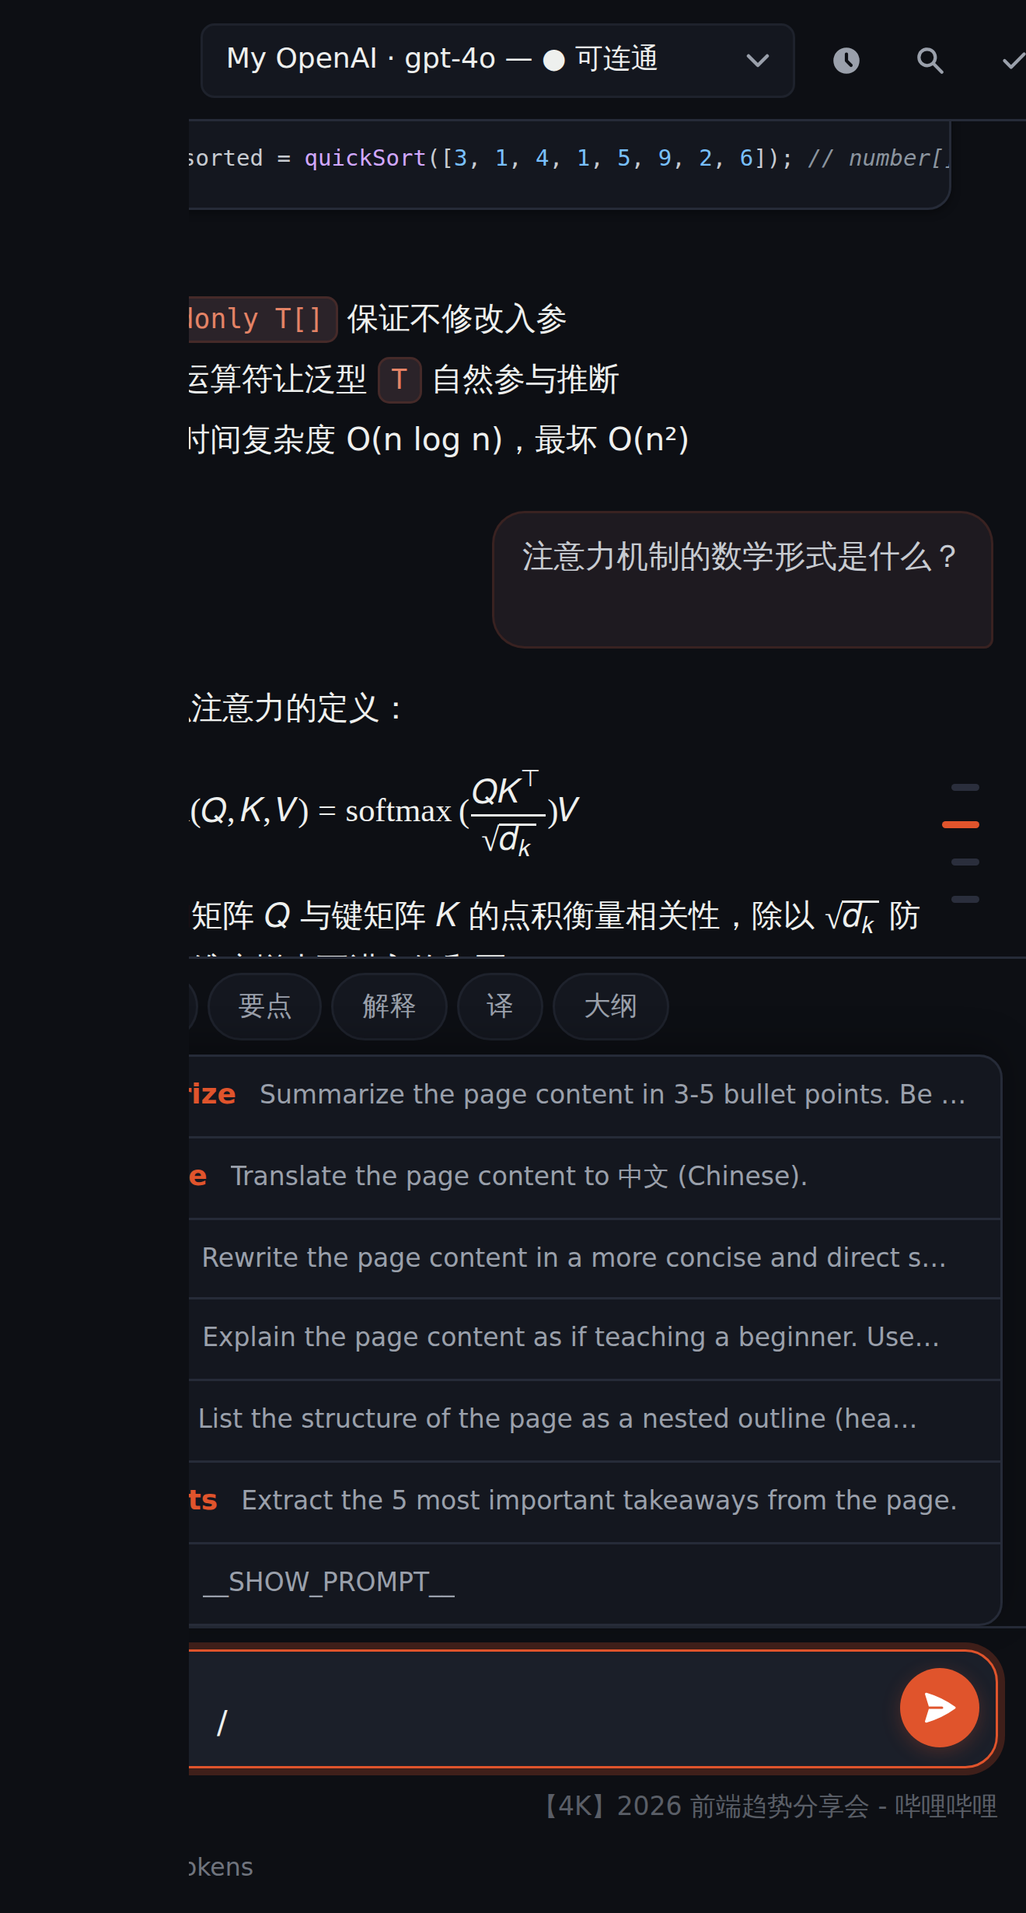
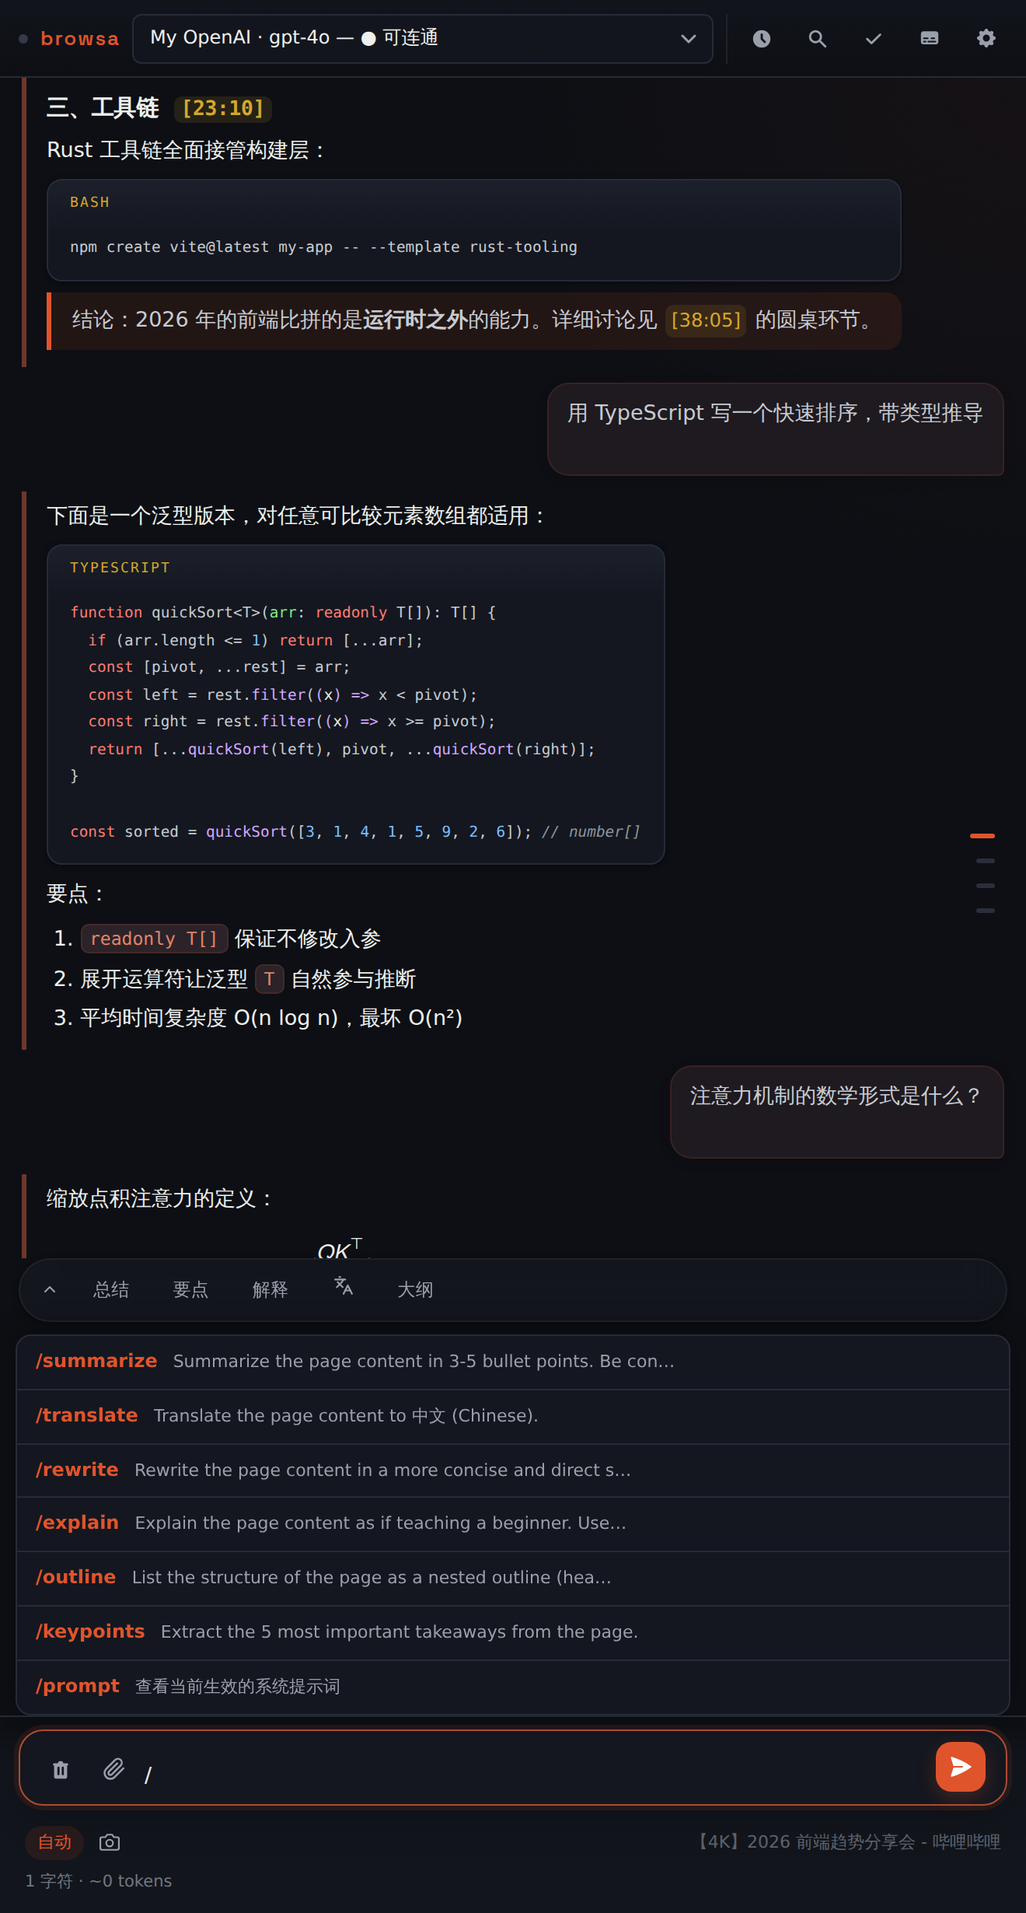
fix(ui): UI 审计六缺陷修复 + /prompt 哨兵泄漏 + guide 截图重摄
CDP 截图+计算样式探针实证的六处缺陷：
- .mermaid-btn 引用从未定义的 --text/--bg-hover，浅色模式全套图表
  工具条对比度 1.2:1（≈隐形）→ 换真实 token（7.5:1）
- 全局 *:focus-visible 光环与 refinement pass 的 outline 叠成双环，
  且 border-radius:4px 把圆形发送按钮聚焦时捏方 → 单一 outline 体系
- 三处 CJK 斜体回潮（.tp-text/.think-block summary/.detail-thread-quote）
  违反本文件自己的无合成斜体规则 → 去斜体
- 浅色代码块暖米色 #f5f2ec 违反冷纸白概念且平铺 shorthand 抹掉
  语言标签渐变带 → token 化冷色 + 恢复渐变带
- 回底按钮固定 bottom:134px 在 composer 长高后压上 quickbar →
  ResizeObserver 按 quickbar+composer 真实高度重定位
- hover 才显现的控件（消息操作/会话操作/代码复制/图表工具条）补
  :focus-within 键盘可达

顺带：/prompt 建议行渲染拦截哨兵 __SHOW_PROMPT__（旧截图已在）→
特例走 t('slashPromptDesc')，en/zh 对齐 README 措辞；快捷条「译」文字
pill 换双语中性的翻译图标；删死 CSS（旧 edit-mode 块）、合并重复
reduced-motion、5 处 transition:all 枚举、theme.css 补 color-scheme、
API Key 输入 autocomplete/spellcheck、options 未定义 --hover 换
--hover-bg。guide 五张截图（拍到旧译 pill+斜体）从修复后 dev-preview
同尺寸重摄。AGENTS.md 固化「refinement pass 尾部覆盖须显式重置被换
系统」的教训。

diff --git a/sidepanel.css b/sidepanel.css
@@ -121,7 +121,7 @@ body {
   background: transparent;
   color: var(--fg-dim);
   cursor: pointer;
-  transition: all var(--t);
+  transition: background var(--t), border-color var(--t), color var(--t);
   flex-shrink: 0;
   padding: 0;
 }
@@ -290,7 +290,7 @@ body {
   background: var(--bg-2);
   color: var(--fg-dim);
   cursor: pointer;
-  transition: all 0.12s;
+  transition: background 0.12s, border-color 0.12s, color 0.12s;
   box-shadow: var(--shadow-sm);
 }
 .msg-action-icon:hover { background: var(--bg-4); border-color: var(--fg-dim); color: var(--fg); }
@@ -635,7 +635,10 @@ body {
   max-width: 90%;
 }
 .tp-icon { flex-shrink: 0; font-size: 13px; }
-.tp-text { font-style: italic; overflow: hidden; text-overflow: ellipsis; white-space: nowrap; }
+/* No font-style:italic here or anywhere CJK can appear (the blockquote rule
+   below documents why: browsers synthesize ugly obliques for Chinese glyphs).
+   The dim color + pulsing rail already carry the "ephemeral process" signal. */
+.tp-text { overflow: hidden; text-overflow: ellipsis; white-space: nowrap; }
 /* Tier-specific accent colours + left stripe */
 .tool-progress[data-tier="thinking"]  { color: var(--warn); border-left-color: var(--warn); }
 .tool-progress[data-tier="searching"] { color: #60a5fa; border-left-color: #60a5fa; }
@@ -810,7 +813,17 @@ body {
   letter-spacing: 0.12em;
 }
 @media (prefers-color-scheme: light) {
-  .msg.assistant pre { background: #f5f2ec; color: #2d2a22; }
+  /* Cool panel from the same tokens as dark (theme.css's light mode is cool
+     paper-white by design — the earlier flat #f5f2ec was a warm parchment
+     that contradicted it, and the flat `background:` shorthand also dropped
+     the 34px header-band gradient, leaving the language label floating over
+     the first code line). */
+  .msg.assistant pre {
+    background:
+      linear-gradient(to bottom, color-mix(in srgb, var(--bg-4) 55%, var(--bg-2)), rgba(0,0,0,0) 34px),
+      var(--bg-3);
+    color: var(--fg-2);
+  }
 }
 .msg.assistant pre code { background: transparent; padding: 0; border-radius: 0; color: inherit; border: none; }
 .msg.assistant table {
@@ -873,7 +886,6 @@ math[display="block"] {
   padding: 5px 10px;
   cursor: pointer;
   color: var(--fg-dim);
-  font-style: italic;
   list-style: none;
   user-select: none;
 }
@@ -975,9 +987,13 @@ math[display="block"] {
   padding: 4px 4px 0;
 }
 .mermaid-btn {
-  background: var(--bg-3, #2a2a3a);
-  color: var(--text, #cdd6f4);
-  border: 1px solid var(--border, rgba(255,255,255,0.1));
+  /* --text/--bg-hover were never theme tokens — their dark fallbacks made the
+     button a light-lavender glyph on --bg-3 (≈1.2:1, invisible) in light mode.
+     All diagram toolbars (mermaid/echarts/markmap/smiles/pdb/nn/katex) share
+     this class, so the tokens must come from the real palette. */
+  background: var(--bg-3);
+  color: var(--fg-2);
+  border: 1px solid var(--border);
   border-radius: 4px;
   width: 26px;
   height: 26px;
@@ -989,7 +1005,7 @@ math[display="block"] {
   padding: 0;
   line-height: 1;
 }
-.mermaid-btn:hover { background: var(--bg-hover, #3a3a4a); }
+.mermaid-btn:hover { background: var(--bg-4); color: var(--fg); }
 .mermaid-error {
   color: var(--error);
   font-size: 12px;
@@ -1115,7 +1131,7 @@ math[display="block"] {
   font-weight: 500;
   cursor: pointer;
   white-space: nowrap;
-  transition: all var(--t);
+  transition: background var(--t), border-color var(--t), color var(--t), transform var(--t);
   letter-spacing: 0.01em;
 }
 .qa-btn:hover {
@@ -1261,7 +1277,7 @@ math[display="block"] {
   background: transparent;
   color: var(--fg-dim);
   cursor: pointer;
-  transition: all var(--t);
+  transition: background var(--t), color var(--t), opacity var(--t);
   padding: 0;
   align-self: flex-end;
   margin-bottom: 1px;
@@ -1325,7 +1341,7 @@ math[display="block"] {
   font-size: 11px;
   cursor: pointer;
   color: var(--fg-dim);
-  transition: all var(--t);
+  transition: background var(--t), color var(--t);
   user-select: none;
   white-space: nowrap;
 }
@@ -1410,24 +1426,33 @@ math[display="block"] {
 }
 
 /* ─── Accessibility ─────────────────────────────────────────────────────────── */
+/* Keyboard parity for hover-revealed controls: these all stay opacity:0 until
+   :hover, but keyboard users never hover — tabbing onto an invisible button is
+   a dead end (the control receives focus with no visual trace). Reveal on
+   :focus-within / :focus-visible to mirror the hover rule for each. */
+.msg:focus-within .msg-actions .msg-action-icon {
+  opacity: 1;
+  pointer-events: auto;
+}
+.msg:focus-within .msg-time { opacity: 0.6; }
+.session-item:focus-within .session-item-actions { opacity: 1; }
+.code-copy-btn:focus-visible { opacity: 1; }
+.mermaid-toolbar:focus-within { opacity: 1; }
+.imagepreview .rm:focus-visible { opacity: 1; }
 /* Every looping animation in this file (status-dot pulse, typing-cursor
    blink, tool-progress pulse, attach-button spin, stop-button pulse)
    collapses to a single frame for users who've asked the OS for reduced
-   motion, instead of running five different infinite animations at once in
-   an always-visible panel. The `.status-dot[data-state="streaming"]` rule
-   above additionally pins an explicit resting opacity, since this wildcard
-   rule alone only guarantees the animation stops — not which keyframe it
-   stops on. */
-@media (prefers-reduced-motion: reduce) {
-  *, *::before, *::after {
-    animation-duration: 0.01ms !important;
-    animation-iteration-count: 1 !important;
-  }
-}
+   motion — the consolidated global reduced-motion block lives at the END of
+   this file (it also covers transition-duration and scroll-behavior).
+   The `.status-dot[data-state="streaming"]` rule above additionally pins an
+   explicit resting opacity, since the wildcard alone only guarantees the
+   animation stops — not which keyframe it stops on. */
 *:focus-visible {
   outline: none;
+  /* box-shadow already follows the element's own border-radius — declaring
+     border-radius here used to reshape round controls (the circular send
+     button visibly squared off while focused). */
   box-shadow: 0 0 0 2px var(--bg), 0 0 0 4px var(--accent);
-  border-radius: 4px;
 }
 /* Textarea is inside composer-box which already shows focus via border+shadow */
 #input:focus-visible { box-shadow: none; }
@@ -1456,7 +1481,11 @@ math[display="block"] {
 /* ─── Scroll-to-bottom button ───────────────────────────────────────────────── */
 .scroll-to-bottom-btn {
   position: fixed;
-  bottom: 134px; /* sits above quickbar + composer */
+  /* Fallback anchor only — sidepanel.js repositions the button from the real
+     composer+quickbar height via ResizeObserver at init. A static offset is
+     only right for a one-line composer: once the textarea grows (multi-line
+     draft, image previews), 134px lands the button on top of the quickbar. */
+  bottom: 134px;
   right: 14px;
   z-index: 20;
   width: 30px; height: 30px;
@@ -1653,54 +1682,6 @@ math[display="block"] {
   object-fit: cover;
   display: block;
 }
-
-/* ─── Edit mode ──────────────────────────────────────────────────────────────── */
-.msg-edit-area {
-  display: block;       /* override inline-block so text-align:right on .msg.user doesn't shift it */
-  text-align: left;
-  width: 100%;
-  min-height: 60px;
-  max-height: 200px;
-  resize: none;
-  background: var(--bg-3);
-  border: 1px solid var(--accent);
-  border-radius: var(--radius-sm);
-  color: var(--fg);
-  font: inherit;
-  font-size: 13.5px;
-  padding: 6px 8px;
-  outline: none;
-  box-sizing: border-box;
-}
-.msg-edit-bar {
-  display: flex;
-  gap: 6px;
-  margin-top: 5px;
-  justify-content: flex-end;
-}
-.msg-edit-send {
-  padding: 4px 12px;
-  background: var(--accent-dim);
-  border: 1px solid var(--accent);
-  border-radius: var(--radius-sm);
-  color: var(--accent);
-  font-size: 12.5px;
-  font-weight: 500;
-  cursor: pointer;
-  transition: background var(--t);
-}
-.msg-edit-send:hover { background: var(--accent-hover); }
-.msg-edit-cancel {
-  padding: 4px 10px;
-  background: var(--bg-3);
-  border: 1px solid var(--border);
-  border-radius: var(--radius-sm);
-  color: var(--fg-2);
-  font-size: 12.5px;
-  cursor: pointer;
-  transition: background var(--t);
-}
-.msg-edit-cancel:hover { background: var(--bg-4); }
 
 /* ─── Diff syntax highlighting ───────────────────────────────────────────────── */
 code.language-diff,
@@ -2428,7 +2409,9 @@ mark.search-highlight-active { background: color-mix(in srgb, var(--gold) 75%, t
   margin: 0 20px 8px 0;
   border-left: 2px solid var(--accent);
   color: var(--fg-2);
-  font-style: italic;
+  /* No font-style:italic — the quoted text is frequently CJK, and synthesized
+     obliques render Chinese glyphs as slanted strokes (see the blockquote
+     rule's comment). The accent rail + dim color mark it as a quote. */
   font-size: 0.92em;
   white-space: pre-wrap;
   max-height: 4.5em;
@@ -2845,6 +2828,11 @@ dialog.lightbox-overlay:not([open]) {
 .ctx-pill:has(input:focus-visible) {
   outline: 2px solid color-mix(in srgb, var(--accent) 75%, transparent);
   outline-offset: 2px;
+  /* The global *:focus-visible rule above paints a 2px-bg+4px-accent box-shadow
+     halo on EVERYTHING; without resetting it here these controls rendered both
+     systems at once — a halo plus an offset outline (double ring). One system
+     per control: this outline. */
+  box-shadow: none;
 }
 .iconbtn {
   width: 28px;

diff --git a/options.html b/options.html
@@ -182,25 +182,25 @@
               <div class="field">
                 <label for="asrApiKey">
                   <span class="field-title">API Key</span>
-                  <input id="asrApiKey" type="password" />
+                  <input id="asrApiKey" type="password" autocomplete="off" spellcheck="false" />
                 </label>
               </div>
               <div class="field">
                 <label for="asrBaseUrl">
                   <span class="field-title">Base URL<span class="tip" tabindex="0">?<span id="asrBaseUrlTip" class="tip-bubble"></span></span></span>
-                  <input id="asrBaseUrl" type="text" />
+                  <input id="asrBaseUrl" type="text" spellcheck="false" />
                 </label>
               </div>
               <div class="field field-full">
                 <label for="asrModel">
                   <span class="field-title" data-i18n="asrModelLabel">模型 ID（音频转写）</span>
-                  <input id="asrModel" type="text" />
+                  <input id="asrModel" type="text" spellcheck="false" />
                 </label>
               </div>
               <div class="field field-full">
                 <label for="asrVideoModel">
                   <span class="field-title" data-i18n="asrVideoModelLabel">视频模型 ID（视频解析用，留空则用上面的模型）</span>
-                  <input id="asrVideoModel" type="text" data-i18n-placeholder="asrVideoModelPlaceholder" placeholder="留空 = 同转写模型" />
+                  <input id="asrVideoModel" type="text" spellcheck="false" data-i18n-placeholder="asrVideoModelPlaceholder" placeholder="留空 = 同转写模型" />
                 </label>
               </div>
             </div>

diff --git a/sidepanel.js b/sidepanel.js
@@ -576,6 +576,23 @@ async function init() {
   });
   document.querySelector('.composer').insertAdjacentElement('beforebegin', scrollToBottomBtn);
 
+  // Anchor the fixed-position button to the composer stack's REAL height —
+  // the CSS bottom:134px is only the no-JS fallback, calibrated for a one-line
+  // composer. A grown textarea (multi-line draft, image previews) pushes the
+  // quickbar up past a static offset and the button lands on top of it.
+  const repositionScrollBtn = () => {
+    const stackH = (document.querySelector('.quickbar')?.offsetHeight || 0)
+      + (document.querySelector('.composer')?.offsetHeight || 0);
+    scrollToBottomBtn.style.bottom = `${stackH + 10}px`;
+  };
+  repositionScrollBtn();
+  if (typeof ResizeObserver !== 'undefined') {
+    const stbObserver = new ResizeObserver(repositionScrollBtn);
+    for (const el of [document.querySelector('.quickbar'), document.querySelector('.composer')]) {
+      if (el) stbObserver.observe(el);
+    }
+  }
+
   messagesEl.addEventListener('scroll', () => {
     const dist = messagesEl.scrollHeight - messagesEl.scrollTop - messagesEl.clientHeight;
     isUserScrolledUp = dist > 80;
@@ -842,7 +859,9 @@ function updateSlashSuggest() {
     item.id = `slash-opt-${i}`;
     item.setAttribute('role', 'option');
     item.setAttribute('aria-selected', 'false');
-    const desc = SLASH_COMMANDS[cmd];
+    const desc = cmd === '/prompt'
+      ? t('slashPromptDesc', 'Show the effective system prompt')
+      : SLASH_COMMANDS[cmd];
     const shortDesc = desc.length > 55 ? desc.slice(0, 55) + '…' : desc;
     item.innerHTML = `<span class="slash-cmd">${cmd}</span><span class="slash-desc">${shortDesc}</span>`;
     item.addEventListener('mousedown', (e) => {

diff --git a/lib/theme.css b/lib/theme.css
@@ -26,6 +26,12 @@
 }
 
 :root {
+  /* Tell the UA which scheme these pages render in, so native widgets we
+     don't fully restyle (select dropdown popups, UA scrollbars, form
+     validation bubbles) pick the matching dark/light chrome instead of the
+     OS default. */
+  color-scheme: dark;
+
   /* Ground */
   --bg:           #0d0f14;
   --bg-2:         #14171f;
@@ -60,8 +66,8 @@
   --warn:         #e0b23a;
   --success:      #4ade80;
 
-  /* Radius — three tiers only: controls / cards+composer / (reserved, unused
-     today, kept for a future larger surface). Previously five+ competing
+  /* Radius — three tiers only: controls / cards+composer / large surfaces
+     (user bubble's outer corners, composer box). Previously five+ competing
      radii (20px pills, 8px icon buttons, 16px composer, 10px cards, 999px
      qa-btns) with no shared rule. */
   --radius-sm:    6px;
@@ -88,6 +94,8 @@
 
 @media (prefers-color-scheme: light) {
   :root {
+    color-scheme: light;
+
     /* Cool paper-white, not warm cream/parchment — the light mode is its own
        considered surface, not a tinted inversion of the dark one. */
     --bg:           #f5f6f3;

diff --git a/sidepanel.html b/sidepanel.html
@@ -110,7 +110,7 @@
       <button class="qa-btn" data-cmd="/summarize" data-i18n="quickSummarize">Summarize</button>
       <button class="qa-btn" data-cmd="/keypoints" data-i18n="quickKeypoints">Key Points</button>
       <button class="qa-btn" data-cmd="/explain" data-i18n="quickExplain">Explain</button>
-      <button class="qa-btn qa-btn-ico" data-cmd="/translate" data-i18n-title="quickTranslate">译</button>
+      <button class="qa-btn qa-btn-ico" data-cmd="/translate" data-i18n-aria="quickTranslate" data-i18n-title="quickTranslate"><svg width="14" height="13" viewBox="0 0 24 24" fill="none" stroke="currentColor" stroke-width="2" stroke-linecap="round" stroke-linejoin="round"><path d="m5 8 6 6"/><path d="m4 14 6-6 2-3"/><path d="M2 5h12"/><path d="M7 2h1"/><path d="m22 22-5-10-5 10"/><path d="M14 18h6"/></svg></button>
       <button class="qa-btn" data-cmd="/outline" data-i18n="quickOutline">Outline</button>
     </div>
 

diff --git a/options.js b/options.js
@@ -509,7 +509,7 @@ function buildProviderCard(name, cfg, opts = {}) {
       <div class="field">
         <label>${_t('apiKeyLabel', 'API key')}
           <div class="apikey-wrap">
-            <input data-k="apiKey" type="password" value="${escapeAttr(cfg.apiKey || '')}" placeholder="sk-..." />
+            <input data-k="apiKey" type="password" value="${escapeAttr(cfg.apiKey || '')}" placeholder="sk-..." autocomplete="off" spellcheck="false" />
             <button type="button" class="apikey-toggle" title="${_t('apiKeyToggleTitle', 'Show / hide key')}" aria-label="${_t('apiKeyToggleAria', 'Toggle API key visibility')}">👁</button>
           </div>
         </label>

diff --git a/options.css b/options.css
@@ -258,7 +258,7 @@ details.provider-group[open] > .provider-group-header::before {
   cursor: pointer;
   transition: background 0.1s;
 }
-.provider:not(.active):hover { background: var(--hover, rgba(128,128,128,0.05)); }
+.provider:not(.active):hover { background: var(--hover-bg); }
 .provider::before {
   content: '';
   position: absolute;

diff --git a/AGENTS.md b/AGENTS.md
@@ -198,6 +198,7 @@ One-shot pass driven by an audit against the `chrome-extensions` and `modern-web
 - **manifest: `activeTab` removed** — the skill's rule 12: activeTab only works on direct user gestures, never from side panels; browsa's injections all pass explicit tabId under `tabs` + `host_permissions` <all_urls>, and context-menu clicks just message the manifest-registered content script. Zero behavioral surface, one less permission for CWS review.
 - **background.js onInstalled re-injection** rewritten `.then()` chains → async IIFE + try/catch per-tab (skill mandatory style).
 - Deliberately NOT adopted: CSS Custom Highlight API for msg-search (current DOM-mutation approach is tested and works; rewrite is risk without user-visible gain) and Popover API (click-semantics doesn't fit hover tips). Revisit on pain.
+- **UI audit pass (2026-09-22, live CDP screenshots + computed-style probes via dev-preview)**: six verified defects fixed in sidepanel.css/theme.css/sidepanel.js — `.mermaid-btn` colored by never-defined `--text`/`--bg-hover` tokens (light mode: near-white glyph on light bg, ~1.2:1 — all diagram toolbars invisible); `*:focus-visible` box-shadow halo AND the refinement pass's outline both rendering (double ring) plus the global rule's `border-radius: 4px` squaring the round send button on focus; three CJK `font-style: italic` survivors (`.tp-text`/`.think-block summary`/`.detail-thread-quote`) violating the file's own documented no-synthesized-obliques rule; light-mode `pre` flat `#f5f2ec` (warm parchment contradicting theme.css's cool-paper concept, and the flat shorthand dropped the 34px language-label band); `.scroll-to-bottom-btn` fixed `bottom:134px` landing ON the quickbar once the composer grew (now repositioned from real `.quickbar`+`.composer` offsetHeight via ResizeObserver; CSS value is the no-JS fallback); hover-only-revealed controls (`.msg-actions`/`.session-item-actions`/`.code-copy-btn`/`.mermaid-toolbar`) had no `:focus-within` reveal — keyboard focus landed on invisible buttons. Plus mechanical cleanup: dead first edit-mode block (`.msg-edit-area`/`.msg-edit-send`, JS uses `msg-edit-textarea`/`msg-edit-save`), duplicate global reduced-motion blocks merged, five `transition: all` enumerated, `color-scheme: dark/light` added to theme.css, quickbar `译` text pill → locale-neutral translate SVG icon, API-key inputs `autocomplete="off" spellcheck="false"`. The docs-site guide screenshots (docs/assets/guide/panel-*.png ×5) were re-shot from dev-preview after this pass — they captured the old `译` pill and the italic 思考过程; the re-shoot also surfaced (and fixed) the `/prompt` sentinel leak: `SLASH_COMMANDS['/prompt']` holds the `'__SHOW_PROMPT__'` interception sentinel that `expandSlash` matches on, and `updateSlashSuggest` rendered map values verbatim — the suggest row now special-cases `/prompt` to `t('slashPromptDesc', …)` (en/zh added; phrasing mirrors the README/reference description). **The meta-lesson both CSS bugs share**: sidepanel.css/options.css each end with a "visual refinement pass" section that RE-DECLARES earlier components — two of the six defects (double ring, flat light `pre`) were introduced by those late-file overrides silently fighting the base rules. New styles for an existing component go NEXT TO that component's rules; if a later override intentionally replaces a system (focus ring, pre background), it must reset what it replaces (`box-shadow: none`) — partial overrides compose into hybrids nobody designed.
 
 ### MV3 service worker gotchas
 
